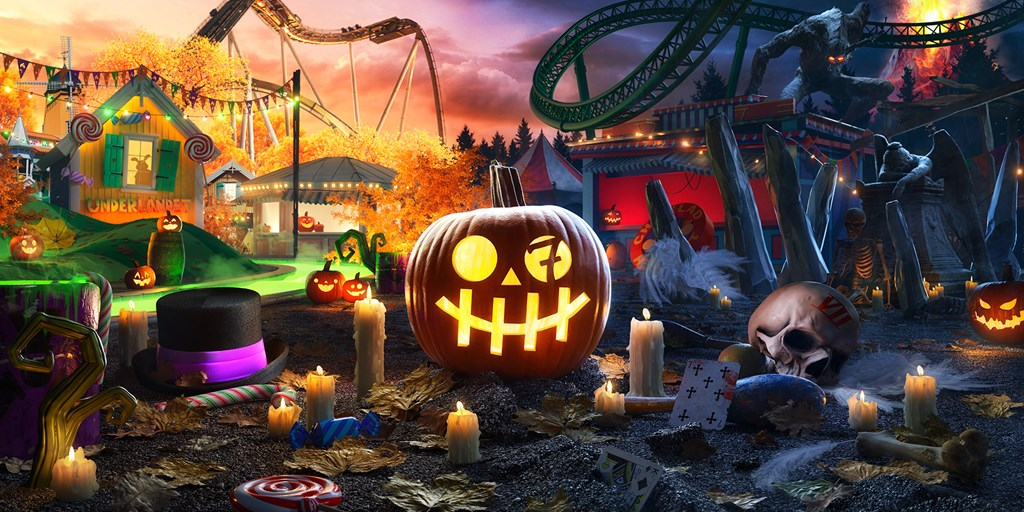
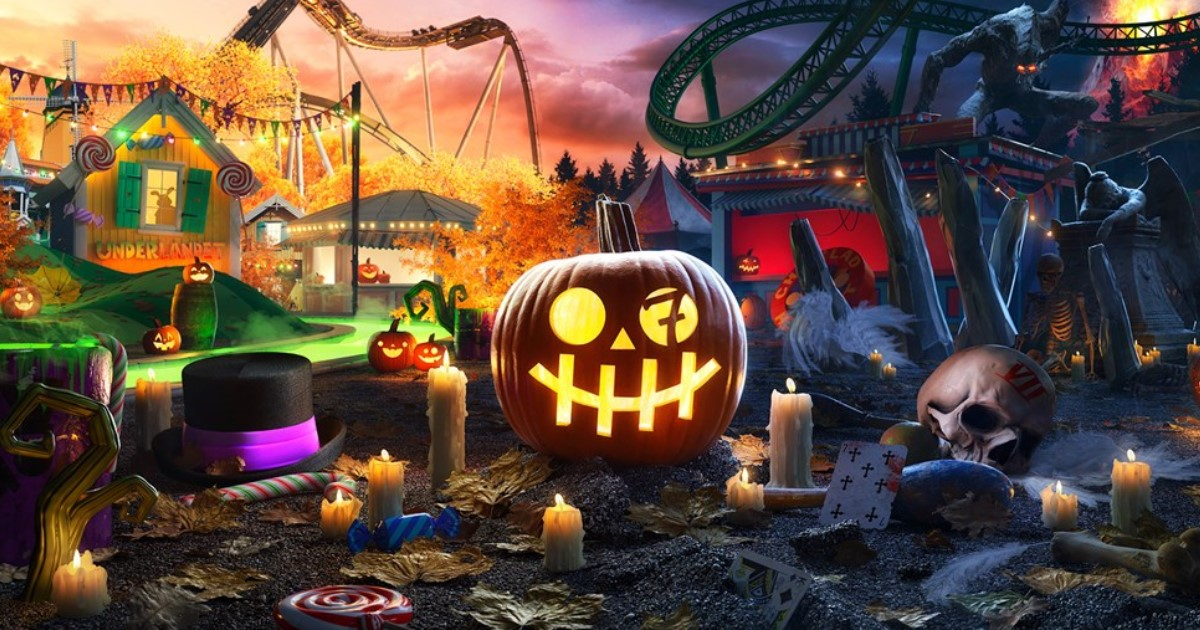
Image size Fix

diff --git a/C3TESTDB/index.html b/C3TESTDB/index.html
@@ -63,7 +63,7 @@
             </div>
         
             <div class="carousel-item"> <!-- Good Format -->
-                <img src="images/Halloween4.jpg" alt="New york" class="w-100 rounded">
+                <img src="images/Halloween3.jpg" alt="New york" class="w-100 rounded">
             </div>
         </div>
     
